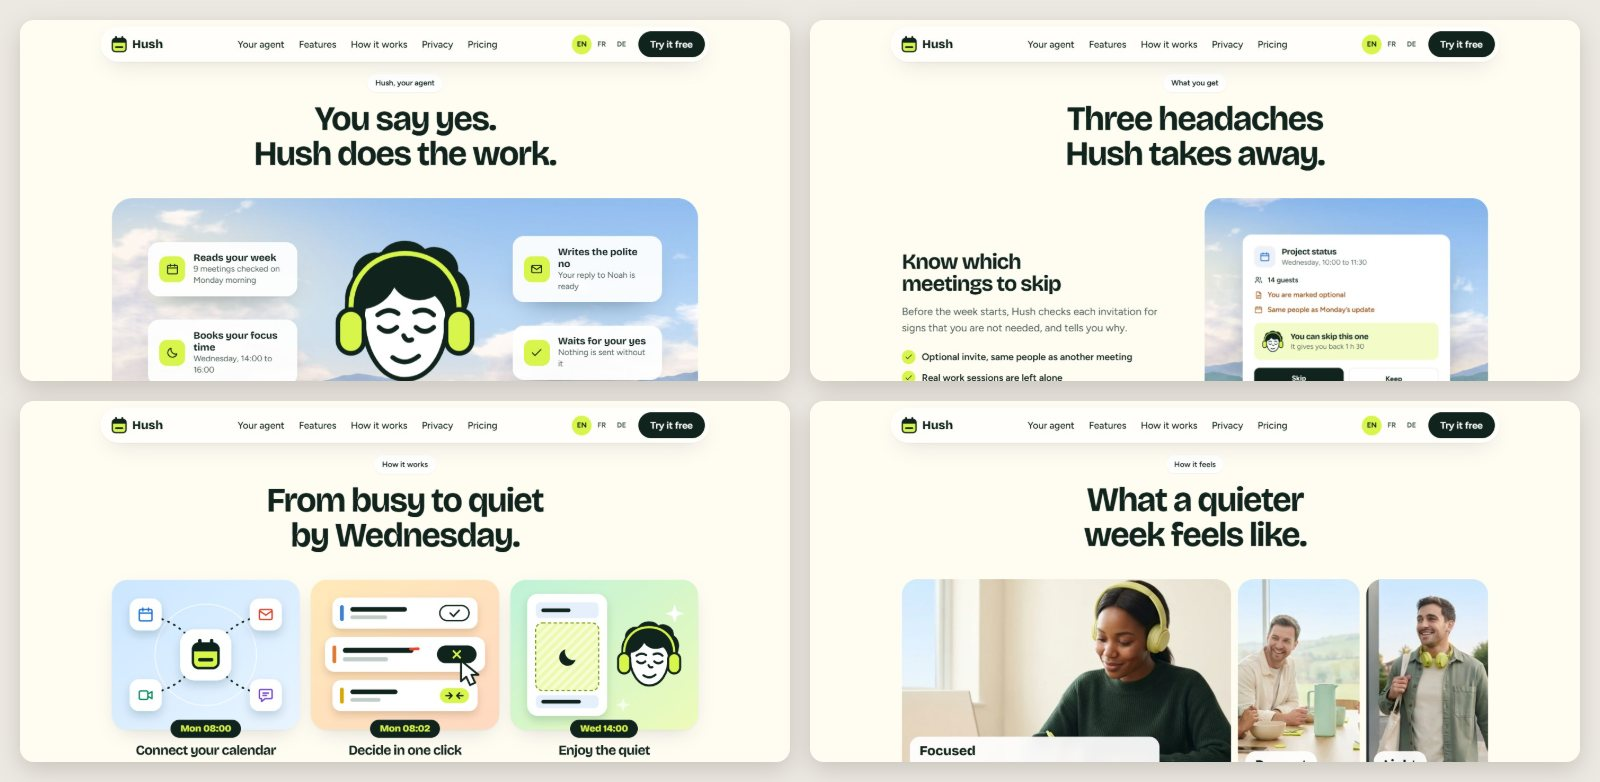
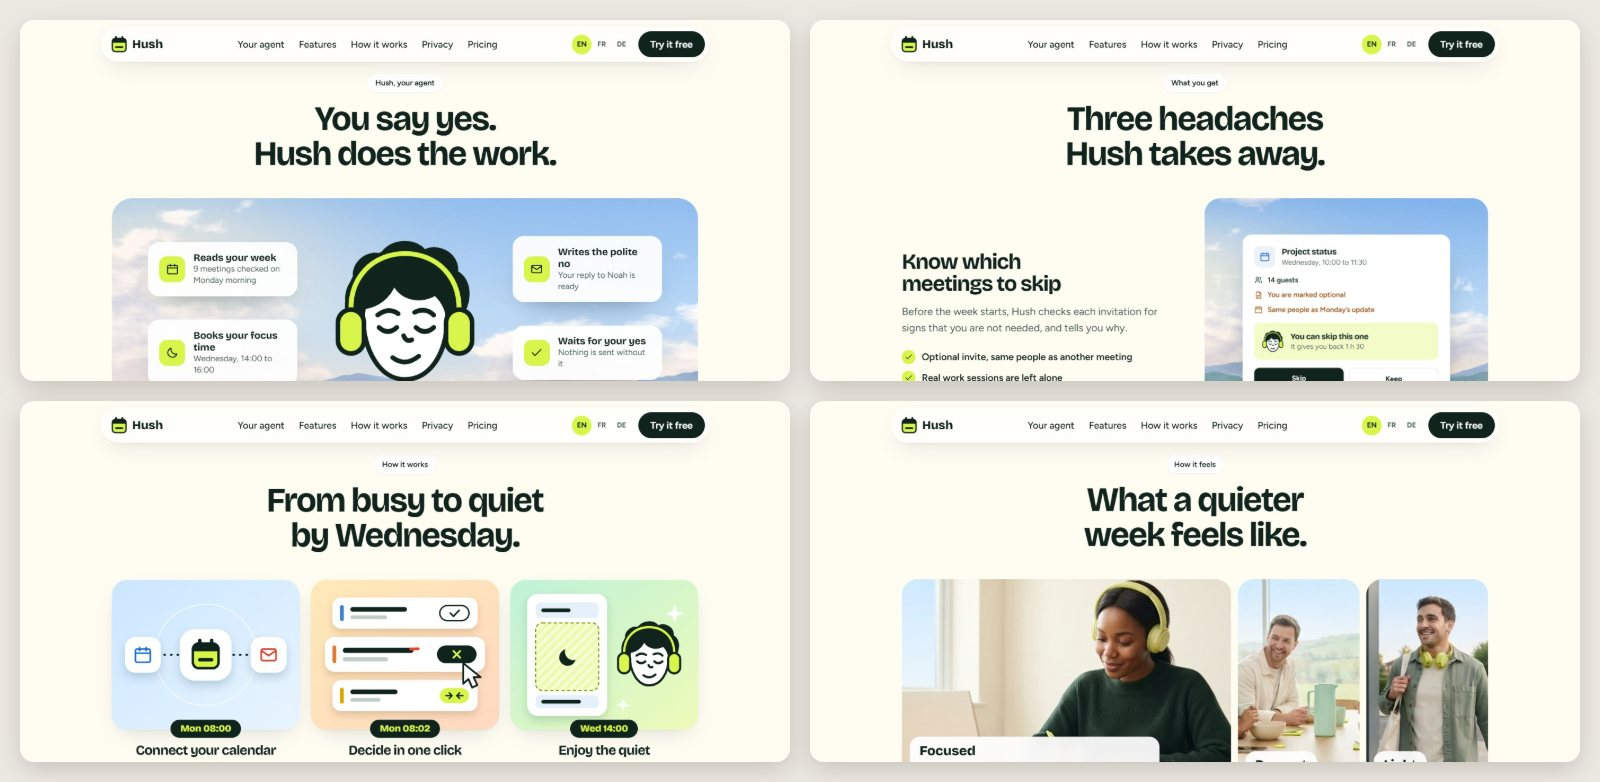
Hush: only claim calendar and mail, add the live link and share card
- Drop the video and chat integrations the privacy section contradicted
- State that Hush does not read messages
- Link the live site from both READMEs and add the link-preview image

Changed region(s): [[0.0625, 0.7673, 0.125, 0.9207], [0.1562, 0.7673, 0.1875, 0.9207], [0.2812, 0.8593, 0.3125, 0.89]]

diff --git a/landing-pages/hush/src/content/i18n.ts b/landing-pages/hush/src/content/i18n.ts
@@ -35,7 +35,7 @@ const fr: DeepPartial<SiteConfig> = {
     worksWith: 'Se branche sur',
     screen: screen('app', 'fr', 'L’application Hush : un agenda de la semaine avec du temps de concentration, à côté de trois suggestions de réunions à raccourcir ou décliner.'),
   },
-  apps: [{ name: 'Agenda' }, { name: 'E-mail' }, { name: 'Visio' }, { name: 'Messagerie' }],
+  apps: [{ name: 'Agenda' }, { name: 'E-mail' }],
   companies: { label: 'La confiance des équipes qui aiment les semaines calmes' },
   agent: {
     eyebrow: 'Hush, votre agent',
@@ -76,7 +76,7 @@ const fr: DeepPartial<SiteConfig> = {
     eyebrow: 'Comment ça marche',
     title: 'Du trop-plein au calme dès mercredi.',
     items: [
-      { time: 'Lun 08:00', title: 'Connectez votre agenda', image: { alt: 'Agenda, e-mail, visio et messagerie reliés à Hush.' } },
+      { time: 'Lun 08:00', title: 'Connectez votre agenda', image: { alt: 'Votre agenda et votre e-mail reliés à Hush.' } },
       { time: 'Lun 08:02', title: 'Décidez en un clic', image: { alt: 'Un clic décline une réunion ; une autre est gardée et une troisième raccourcie.' } },
       { time: 'Mer 14:00', title: 'Profitez du calme', image: { alt: 'Une journée avec un grand créneau de concentration, à côté de Hush casque sur les oreilles.' } },
     ],
@@ -86,7 +86,7 @@ const fr: DeepPartial<SiteConfig> = {
     title: 'Votre agenda reste à vous.',
     body: 'Voici ce que Hush regarde, ce qu’il ne fait jamais, et ce que voit votre responsable.',
     reads: { title: 'Hush regarde', items: ['Les titres des réunions', 'Les horaires et la durée', 'Les invités et l’ordre du jour'] },
-    never: { title: 'Hush ne fait jamais', items: ['Rejoindre ou enregistrer une réunion', 'Envoyer ou refuser sans votre accord', 'Montrer vos réunions à votre chef'] },
+    never: { title: 'Hush ne fait jamais', items: ['Rejoindre ou enregistrer une réunion', 'Lire vos messages', 'Envoyer ou refuser sans votre accord', 'Montrer vos réunions à votre chef'] },
     manager: { title: 'Votre responsable voit', image: screen('report', 'fr', 'Équipe design : 31 heures gagnées ce mois-ci. Aucun nom, aucun titre de réunion.'), consent: 'Seulement si l’équipe accepte' },
   },
   feel: {
@@ -128,7 +128,7 @@ const de: DeepPartial<SiteConfig> = {
     worksWith: 'Verbindet sich mit',
     screen: screen('app', 'de', 'Die Hush-App: ein Wochenkalender mit Fokuszeit, daneben drei Vorschläge, Meetings zu kürzen oder abzusagen.'),
   },
-  apps: [{ name: 'Kalender' }, { name: 'E-Mail' }, { name: 'Videocalls' }, { name: 'Team-Chat' }],
+  apps: [{ name: 'Kalender' }, { name: 'E-Mail' }],
   companies: { label: 'Teams, die ruhige Wochen lieben, vertrauen uns' },
   agent: {
     eyebrow: 'Hush, dein Agent',
@@ -169,7 +169,7 @@ const de: DeepPartial<SiteConfig> = {
     eyebrow: 'So funktioniert es',
     title: 'Bis Mittwoch von voll zu ruhig.',
     items: [
-      { time: 'Mo 08:00', title: 'Kalender verbinden', image: { alt: 'Kalender, E-Mail, Video und Chat laufen bei Hush zusammen.' } },
+      { time: 'Mo 08:00', title: 'Kalender verbinden', image: { alt: 'Dein Kalender und deine E-Mail sind mit Hush verbunden.' } },
       { time: 'Mo 08:02', title: 'Mit einem Klick entscheiden', image: { alt: 'Ein Klick sagt ein Meeting ab; eines bleibt, ein drittes wird gekürzt.' } },
       { time: 'Mi 14:00', title: 'Die Ruhe genießen', image: { alt: 'Ein Tag mit einem großen Fokusblock, daneben Hush mit Kopfhörern.' } },
     ],
@@ -179,7 +179,7 @@ const de: DeepPartial<SiteConfig> = {
     title: 'Dein Kalender bleibt deiner.',
     body: 'Das sieht sich Hush an, das tut es nie, und das sieht deine Führungskraft.',
     reads: { title: 'Hush sieht sich an', items: ['Titel der Meetings', 'Uhrzeit und Dauer', 'Gästeliste und Agenda'] },
-    never: { title: 'Hush tut nie', items: ['Einem Meeting beitreten oder mitschneiden', 'Ohne dein Ja senden oder absagen', 'Deine Meetings der Chefetage zeigen'] },
+    never: { title: 'Hush tut nie', items: ['Einem Meeting beitreten oder mitschneiden', 'Deine Nachrichten lesen', 'Ohne dein Ja senden oder absagen', 'Deine Meetings der Chefetage zeigen'] },
     manager: { title: 'Deine Führungskraft sieht', image: screen('report', 'de', 'Designteam: 31 Stunden diesen Monat gewonnen. Keine Namen, keine Meetingtitel.'), consent: 'Nur wenn das Team zustimmt' },
   },
   feel: {

diff --git a/landing-pages/hush/src/content/site.ts b/landing-pages/hush/src/content/site.ts
@@ -35,8 +35,8 @@ export const site = {
     background: { large: '/images/sky-2400.jpg', small: '/images/sky-1200.jpg' },
     screen: img('/images/screens/app-en.webp', 1920, 1120, 'The Hush app: a week calendar with focus time, next to three suggestions to shorten or skip meetings.'),
   },
-  /** the four kinds of apps Hush plugs into */
-  apps: [app('Calendar', 'calendar'), app('Mail', 'mail'), app('Video calls', 'video'), app('Team chat', 'chat')],
+  /** the apps Hush plugs into: keep this in step with the privacy section */
+  apps: [app('Calendar', 'calendar'), app('Mail', 'mail')],
   companies: {
     label: 'Trusted by teams that love a quiet week',
     logos: [logo('Quillfox'), logo('Marrowbay'), logo('Tandemoor'), logo('Pebblux'), logo('Vellumo')],
@@ -82,7 +82,7 @@ export const site = {
     eyebrow: 'How it works',
     title: 'From busy to quiet by Wednesday.',
     items: [
-      { time: 'Mon 08:00', title: 'Connect your calendar', image: img('/images/steps/connect.svg', 400, 320, 'Calendar, mail, video and chat flowing into Hush.') },
+      { time: 'Mon 08:00', title: 'Connect your calendar', image: img('/images/steps/connect.svg', 400, 320, 'Your calendar and your mail connected to Hush.') },
       { time: 'Mon 08:02', title: 'Decide in one click', image: img('/images/steps/decide.svg', 400, 320, 'One click declines a meeting; another is kept and a third shortened.') },
       { time: 'Wed 14:00', title: 'Enjoy the quiet', image: img('/images/steps/quiet.svg', 400, 320, 'A day with a large block of focus time, next to Hush wearing headphones.') },
     ],
@@ -92,7 +92,7 @@ export const site = {
     title: 'Your calendar stays yours.',
     body: 'Here is what Hush looks at, what it never does, and what your manager gets to see.',
     reads: { title: 'Hush looks at', items: ['Meeting titles', 'Times and length', 'Guest list and agenda'] },
-    never: { title: 'Hush never', items: ['Joins or records a meeting', 'Sends or declines without your yes', 'Shows your meetings to your boss'] },
+    never: { title: 'Hush never', items: ['Joins or records a meeting', 'Reads your messages', 'Sends or declines without your yes', 'Shows your meetings to your boss'] },
     manager: {
       title: 'Your manager sees',
       image: img('/images/screens/report-en.webp', 800, 600, 'Design team: 31 hours won back this month. No names, no meeting titles.'),

diff --git a/landing-pages/hush/index.html b/landing-pages/hush/index.html
@@ -11,6 +11,13 @@
     <meta property="og:site_name" content="Hush" />
     <meta property="og:title" content="Hush — Cancel the meetings you don’t need." />
     <meta property="og:description" content="Cut useless meetings and win back time to work." />
+    <!-- link previews: og:image must be absolute, update both addresses if the domain changes -->
+    <meta property="og:url" content="https://hush-vert.vercel.app/" />
+    <meta property="og:image" content="https://hush-vert.vercel.app/og-image.jpg" />
+    <meta property="og:image:width" content="1200" />
+    <meta property="og:image:height" content="630" />
+    <meta property="og:image:alt" content="Cancel the meetings you don’t need: the Hush title with the word meetings crossed out." />
+    <meta name="twitter:card" content="summary_large_image" />
     <link rel="preconnect" href="https://fonts.googleapis.com" />
     <link rel="preconnect" href="https://fonts.gstatic.com" crossorigin />
     <link rel="stylesheet" href="https://fonts.googleapis.com/css2?family=Bricolage+Grotesque:opsz,wght@12..96,500..800&family=Figtree:wght@400;500;600;700&display=swap" />

diff --git a/landing-pages/hush/README.md b/landing-pages/hush/README.md
@@ -4,7 +4,9 @@ A bright SaaS landing page for a product that does not exist: a calendar assista
 
 Built with **React 19, TypeScript and Vite**. No animation or icon library.
 
-![Hush landing page](../../previews/hush.jpg)
+**Live: [hush-vert.vercel.app](https://hush-vert.vercel.app)**
+
+[![Hush landing page](../../previews/hush.jpg)](https://hush-vert.vercel.app)
 
 ## Inside the page
 
@@ -41,6 +43,7 @@ Every picture is a plain file, named in `src/content/site.ts`. Replace the file,
 |---|---|---|
 | `images/brand/logo.svg` | Logo next to the name | square |
 | `favicon.svg` | Browser tab icon | square |
+| `og-image.jpg` | Preview shown when the link is shared (set its address in `index.html`) | 1200 × 630 |
 | `images/brand/agent.svg` | The agent (agent section and closing block) | square |
 | `images/sky-2400.jpg`, `sky-1200.jpg` | Landscape behind the hero (and the agent) | 12:7 |
 | `images/apps/*.svg` | "Works with" icons | square |

diff --git a/README.md b/README.md
@@ -23,7 +23,7 @@ Free to use, MIT licensed.
           <img src="previews/hush.jpg" alt="Hush: the hero, with the meeting assistant app" width="700">
         </a>
       </td>
-      <td><strong><a href="landing-pages/hush">Hush</a></strong></td>
+      <td><strong><a href="landing-pages/hush">Hush</a></strong> · <a href="https://hush-vert.vercel.app">Live</a></td>
       <td>A calendar assistant that cuts useless meetings, with its own quiet agent.</td>
     </tr>
     <tr>
